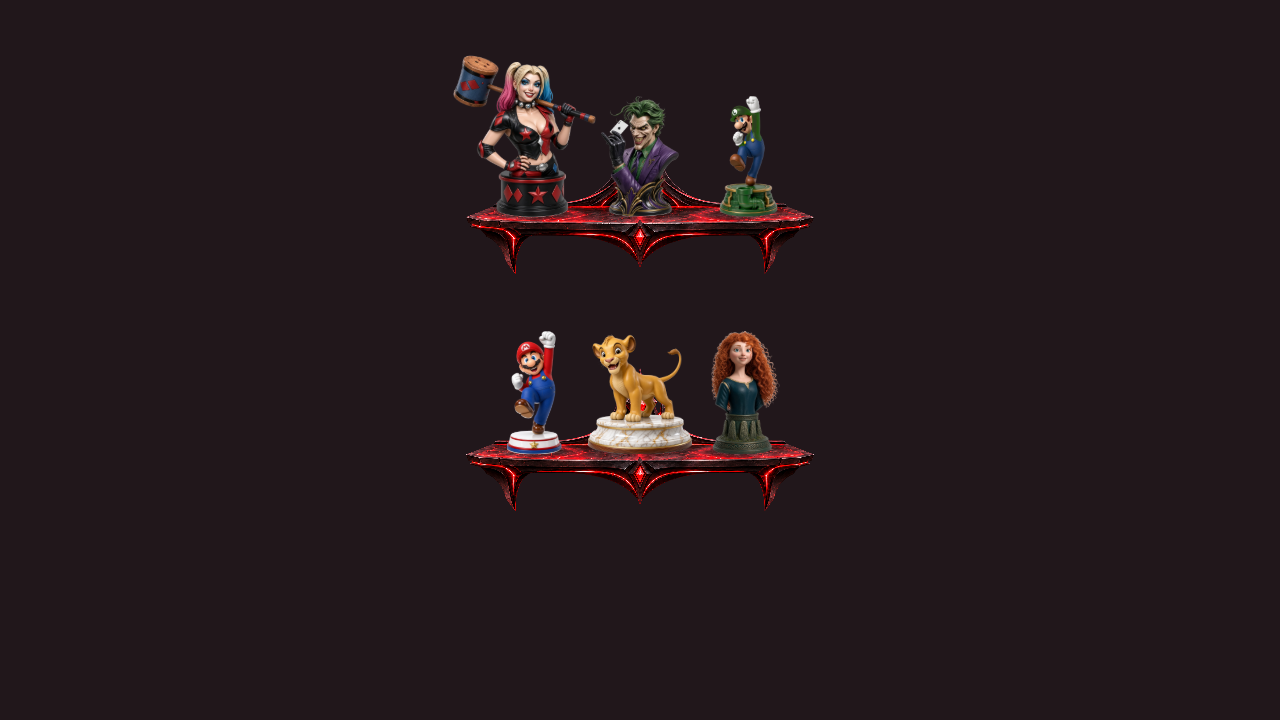
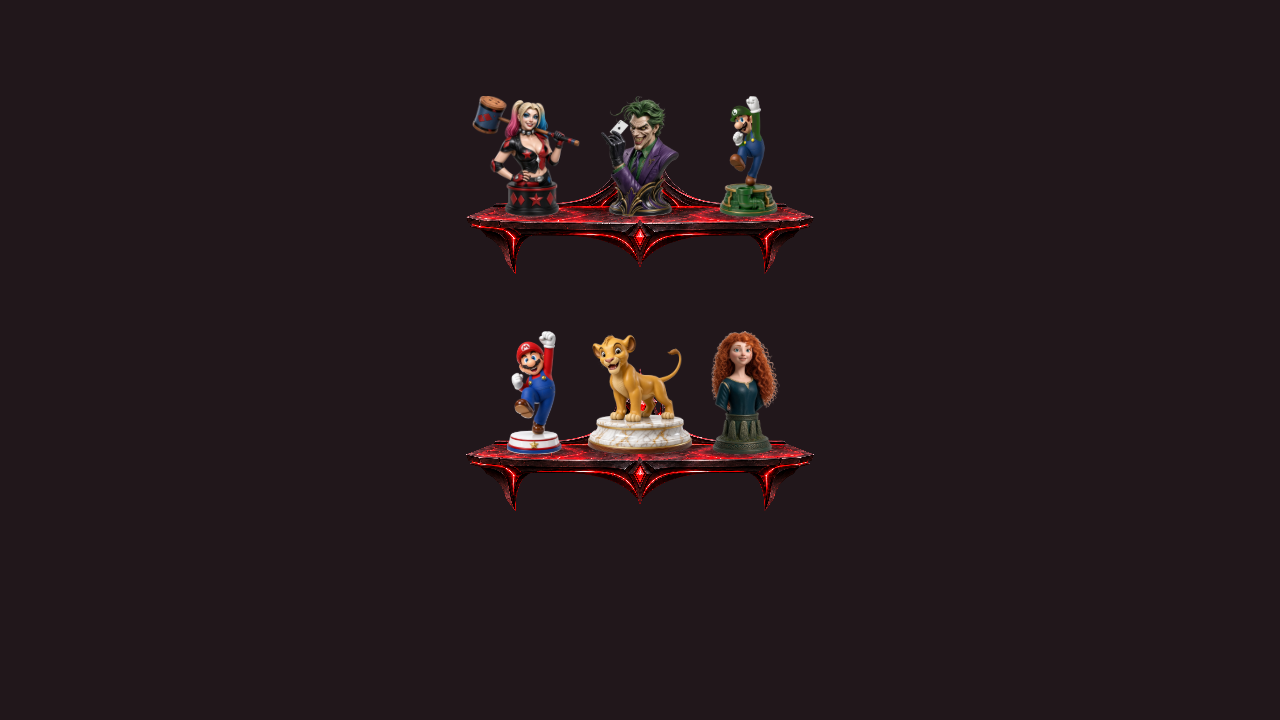
Reduce Harley size and move Merida to Disney

Changed region(s): [[0.3438, 0.0611, 0.4688, 0.3056]]

diff --git a/collectible-shelf.js b/collectible-shelf.js
@@ -130,7 +130,8 @@
   rows.push(['Disney', ['disney-camp-rock-statue','Camp Rock Statue']]);
   rows.push(['Pokémon', ['pokemon-lugia-statue','Lugia Statue'], ['pokemon-ash-statue','Ash Ketchum Statue'], ['pokemon-ho-oh-statue','Ho-Oh Statue'], ['pokemon-jigglypuff-statue','Jigglypuff Statue'], ['pokemon-groudon-statue','Groudon Statue'], ['pokemon-entei-statue','Entei Statue']]);
   rows.push(['Superheroes', ["superhero-harley-quinn-statue","Harley Quinn Statue"], ["superhero-joker-statue","Joker Statue"]]);
-  rows.push(['Character Collectibles', ["luigi-statue","Luigi Statue"], ["mario-statue","Mario Statue"], ["simba-statue","Simba Statue"], ["merida-statue","Merida Statue"]]);
+  rows.push(['Character Collectibles', ["luigi-statue","Luigi Statue"], ["mario-statue","Mario Statue"], ["simba-statue","Simba Statue"]]);
+  rows.push(['Disney', ["merida-statue","Merida Statue"]]);
   const items = rows.flatMap(([category, ...entries], row) => entries.map(([id, name], column) => ({ id, name, category: ['pikachu','eevee'].includes(id) ? 'Pokémon' : id === 'tanjiro' ? 'Anime' : ['cross','church'].includes(id) ? 'Christian Faith' : category, row, column })));
   // Individual artwork bounds avoid neighboring sprites leaking into uneven atlas cells.
   // These are viewport crops only; the original transparent PNG is unmodified.
@@ -149,7 +150,7 @@
   const clean = value => valid(value) ? { enabled: value.enabled, slots: value.slots.map(id => replacements[id] || id), theme:value.theme || 'crimson' } : { enabled: true, slots: ['horse', 'crystal', 'planet'], theme:'crimson' };
   const name = id => items.find(item => item.id === id)?.name || 'Empty spot';
   const standalone = {
-    'superhero-harley-quinn-statue': {"source":"assets/shelf-superhero-harley-quinn-statue.png","width":1728,"height":1152,"bounds":[386,6,981,1111],"displaySize":440,"displayWidth":440,"displayOffsetX":-20,"directImage":true},
+    'superhero-harley-quinn-statue': {"source":"assets/shelf-superhero-harley-quinn-statue.png","width":1728,"height":1152,"bounds":[386,6,981,1111],"displaySize":330,"displayWidth":330,"displayOffsetX":-15,"directImage":true},
     'superhero-joker-statue': {"source":"assets/shelf-superhero-joker-statue.png","width":1264,"height":1568,"bounds":[166,2,978,1534],"displaySize":330,"displayWidth":280,"directImage":true},
     'luigi-statue': {"source":"assets/shelf-luigi-statue.png","width":1232,"height":1600,"bounds":[261,26,731,1518],"displaySize":330,"displayWidth":280,"directImage":true},
     'mario-statue': {"source":"assets/shelf-mario-statue.png","width":960,"height":2064,"bounds":[52,36,870,1956],"displaySize":330,"displayWidth":280,"directImage":true},

diff --git a/index.html b/index.html
@@ -25,7 +25,7 @@
 
   <script src="launchpad-scenes.js?v=20261002-fire-v47"></script>
   <script src="profile-banners.js?v=20261002-fire-nuggets-v11"></script>
-<script src="collectible-shelf.js?v=20261003-six-statues-v89"></script>
+<script src="collectible-shelf.js?v=20261003-harley-scale-v90"></script>
   <script src="app.js?v=20261003-remove-feedback-return-v100"></script>
   <script src="colt-assistant.js?v=20261003-floating-v3"></script>
   <script src="colt-radio.js?v=20261003-ocean-v31"></script>
